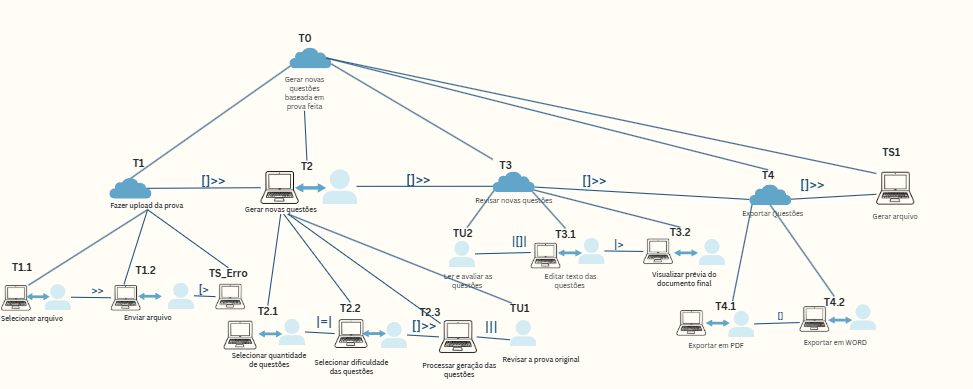
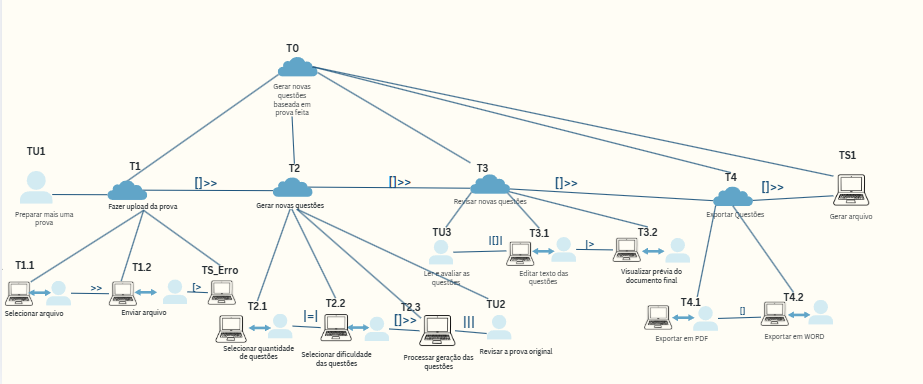
Correção - Entrega 5 - T03

diff --git a/docs/05_analise_tarefas.md b/docs/05_analise_tarefas.md
@@ -666,8 +666,6 @@ Goal 0: Gerar novas questões baseadas em provas já elaboradas.
 `G2: Gerar novas questões`
 
 ### Métodos, operadores e regras de seleção
-
-- **Method 2.A (M1):** Gerar novas questões
   - Op. 2.A.1: Selecionar quantidade de questões que quer gerar.
   - Op. 2.A.2: Clicar no botão "Gerar novas questões".
 
@@ -679,6 +677,7 @@ Goal 0: Gerar novas questões baseadas em provas já elaboradas.
 
 - **Method 3.A (M1):** Editar diretamente na lista
   - Op. 3.A.1: Clicar sobre o campo e alterar o texto
+  - Op. 3.A.2: Verificar a mudança feita
 
 - **Method 3.B (M2):** Abrir formulário/modal de edição avançada
   - Op. 3.B.1: Clicar no botão "Editar Detalhes"
@@ -720,7 +719,7 @@ O modelo de Árvore de Tarefas Concorrentes (*ConcurTaskTrees* – CTT) para a t
 O processo começa com a tarefa abstrata **T1 (Fazer upload da prova)**, responsável por disponibilizar ao sistema o arquivo de uma avaliação previamente elaborada pelo docente. Essa tarefa é decomposta nas tarefas interativas **T1.1 (Selecionar arquivo)** e **T1.2 (Enviar arquivo)**, relacionadas por um operador de **Ativação (>>)**. Dessa forma, o docente deve selecionar o arquivo desejado antes de realizar seu envio. Durante essa etapa, existe também a possibilidade de ocorrência de um erro, representada pela tarefa de sistema **TS_Erro (Exibir erro)**. A relação de **Desativação (`[>`)** entre T1.2 e TS_Erro indica que, caso seja identificado um problema durante o envio, a operação é interrompida e o sistema apresenta uma mensagem de erro ao docente.
 
 Após a conclusão do upload, ocorre uma **Ativação com passagem de informação ([]>>)** para a tarefa abstrata **T2 (Gerar novas questões)**. Essa relação representa a transferência da prova enviada para a etapa de geração, permitindo que seu conteúdo seja utilizado como referência na produção das novas questões. A tarefa T2 é decomposta em **T2.1 (Selecionar quantidade de questões)** e
-**T2.2 (Selecionar dificuldade das questões)**,classificadas como interativa, **T2.3 (Processar geração das questões)**, classificada como tarefa do sistema e **TU1(Revisar a prova original)**, classificada como tarefa de usuário. T2.1 e T.2.2 possuem uma relação de **Independência(`\|=\|`)**. Ademais, T2.2 e T2.3 possuem uma relação de ativaçao com passagem de informação, com a dificuldade e quantidade de questões escolhidas pelo usuário passadas para o sistema fazer o processamento e gerar as questõe. Além dessa, é feita uma relação de ativação com passagem de informação para T2.3, onde o sistema processa as informações dadas pelo usuário para gerar as novas questões. Por fim, em uma relação de **Concorrência(`\|\|\|`)**, o usuário pode também revisar a prova na qual fez upload no sistema através da TU1. 
+**T2.2 (Selecionar dificuldade das questões)**,classificadas como interativa, **T2.3 (Processar geração das questões)**, classificada como tarefa do sistema e **TU2(Revisar a prova original)**, classificada como tarefa de usuário. T2.1 e T.2.2 possuem uma relação de **Independência(`\|=\|`)**. Ademais, T2.2 e T2.3 possuem uma relação de ativaçao com passagem de informação, com a dificuldade e quantidade de questões escolhidas pelo usuário passadas para o sistema fazer o processamento e gerar as questõe. Além dessa, é feita uma relação de ativação com passagem de informação para T2.3, onde o sistema processa as informações dadas pelo usuário para gerar as novas questões. Por fim, em uma relação de **Concorrência(`\|\|\|`)**, o usuário pode também revisar a prova na qual fez upload no sistema através da TU1. 
 
 Concluído o processamento, as questões produzidas são disponibilizadas para a tarefa abstrata **T3 (Revisar novas questões)**, por meio de uma relação de **Ativação com passagem de informação ([]>>)**. Essa etapa contempla as tarefas interativas **TU2 (Ler e avaliar novas questões)** e **T3.1 (Editar novas questões)**, relacionadas por **Concorrência e comunicante (`\|[]\|`)**. e **T3.2(Visualizar prévia do documento final)**, relacionado por **Suspensão/Retomada(`\|>`)**,  Essa relação permite que o docente alterne entre a leitura e a edição das questões, sem precisar concluir a avaliação de todas elas antes de realizar modificações. Assim, o docente pode identificar possíveis inadequações no conteúdo e realizar ajustes quando considerar necessário, mantendo as questões que já estejam adequadas.
 
@@ -740,14 +739,14 @@ Dessa forma, o modelo CTT representa não apenas a sequência de atividades nece
 |---|---|---|
 | `>>` | Ativação(sequência): A segunda tarefa só pode iniciar após a primeira terminar, sem passagem automática de informação. | T1.1 >> T1.2: o docente seleciona o arquivo da prova antes de enviá-lo ao sistema.|
 | `[]>>` | Ativação com passagem de informação: A segunda tarefa só pode iniciar após a primeira terminar, e a informação produzida é repassada para a seguinte | T1 []>> T2: o arquivo enviado é utilizado como entrada para a geração de novas questões. |
-| `\|\|\|` | Concorrentes: especifica que as tarefas podem ser realizadas em qualquer ordem ou ao mesmo tempo. |  TU1 `\|\|\|` T3.1: O usuário pode escolher a ordem na qual ele analisa as questões geradas e as edita caso veja necessidade. |
+| `\|\|\|` | Concorrentes: especifica que as tarefas podem ser realizadas em qualquer ordem ou ao mesmo tempo. |  TU2 `\|\|\|` T3.1: O usuário pode escolher a ordem na qual ele analisa as questões geradas e as edita caso veja necessidade. |
 | `[>` | Desativação: A segunda tarefa interrompe a primeira | T1.2 `[>` TS_Erro: O sistema interrompe o envio da prova caso ele esteja em um formato inválido.|
 | `[]` | Escolha: Duas tarefas que no momento que uma é escolhida, a outra é desabilitada. | T4.1 [] T4.2: O usuário escolhe qual o formato que ele quer exportar as novas questões geradas.|
-| `\| [] \|` |  Tarefas concorrentes e comunicantes: Podem ser realizadas em qualquer ordem ou ao mesmo tempo e podem trocar informações entre si. | TU2 `\|[]\|` T3.1: O usuário pode ler e avaliar as questões geradas e edita-las, caso ache necessário.|
+| `\| [] \|` |  Tarefas concorrentes e comunicantes: Podem ser realizadas em qualquer ordem ou ao mesmo tempo e podem trocar informações entre si. | TU3 `\|[]\|` T3.1: O usuário pode ler e avaliar as questões geradas e edita-las, caso ache necessário.|
 | `\|=\|` |  Tarefas independentes: podem ser realizadas em qualquer ordem, porém uma precisa terminar para outra começar. | T2.1 `\|=\|` T2.2: O usuário pode selecionar a quantidade e a dificuldade das questões em qualquer ordem.|
 | `\|>` |  Suspensão e retomada: Uma tarefa pode interromper a outra, com T1 podendo ser retomada assim que T2 finalizar. | T3.1 `\|>` T3.2: O usuário pode editar as questões geradas pelo sistema e visualizar uma prévia da documento final.|
 | Nuvem | Tarefa abstrata: a representação de uma composição de tarefas| T5: O usuário exporta as questões geradas e editadas.|
-| Pessoa | Tarefa do usuário: tarefas realizadas fora do sistema pelo usuário| TU1: O usuário lê o arquivo da prova que ele preparou para o upload.|
+| Pessoa | Tarefa do usuário: tarefas realizadas fora do sistema pelo usuário| TU2: O usuário lê o arquivo da prova que ele preparou para o upload.|
 | Computador | Tarefa do sistema: processamento pelo sistema sem qualquer interação com o usuário| TS1: O sistema gera o arquivo exportado pelo usuário no formato solicitado. |
 | Pessoa e computador| Tarefa interativa: Tarefa realizada pelo usuário em que ocorre um diálogo com o sistema| T1.2: O usuário faz o upload da prova no sistema. |
 
